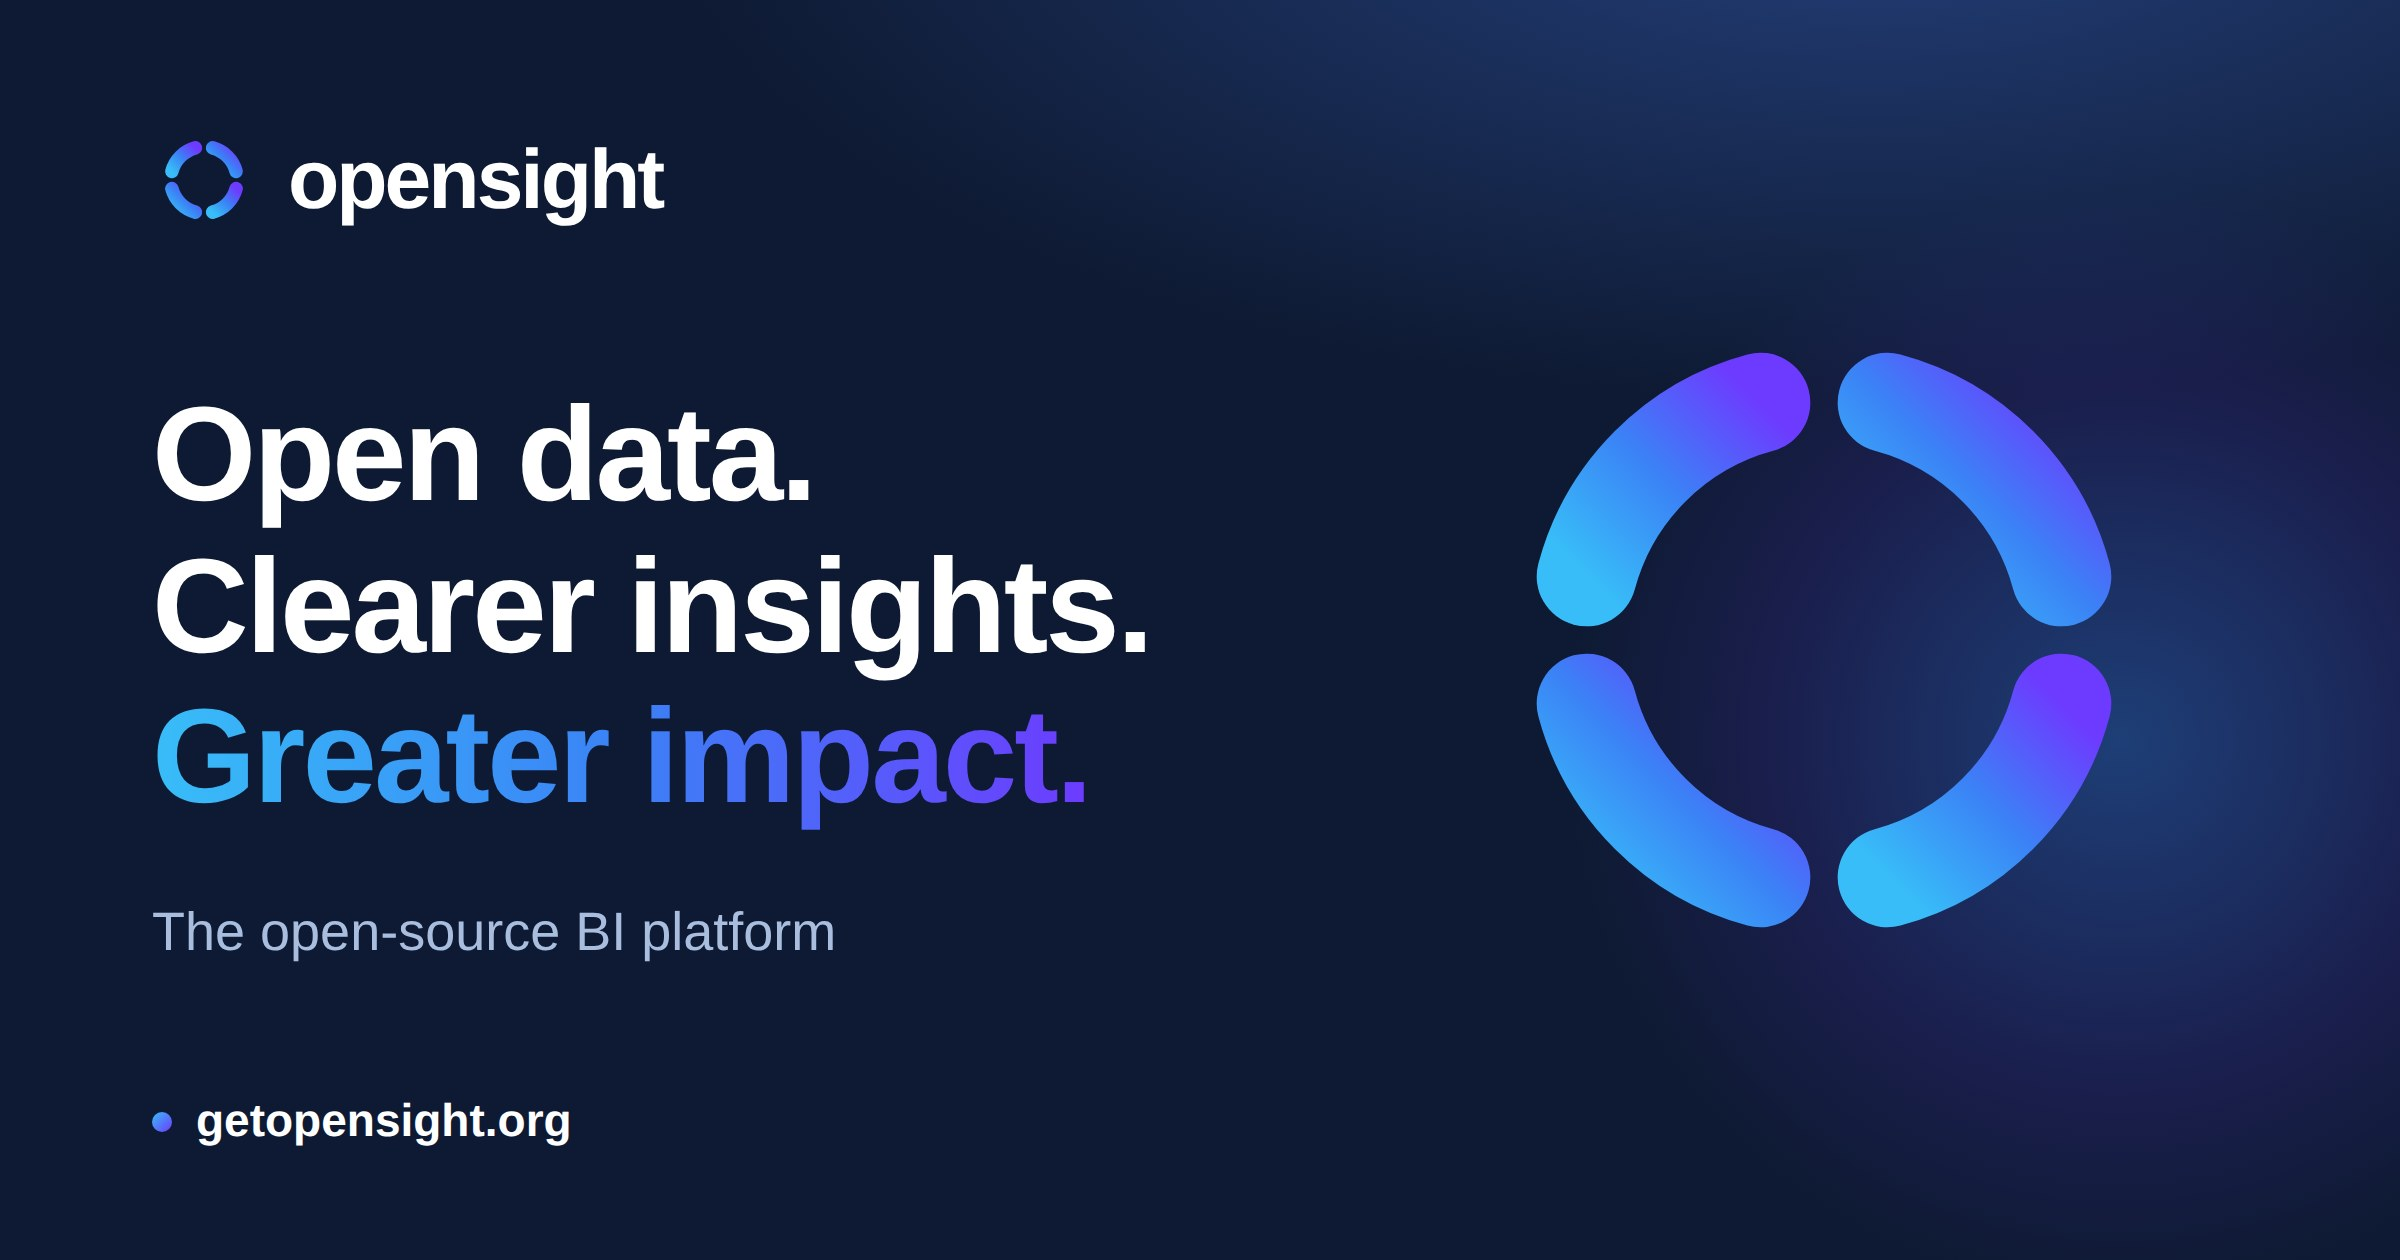
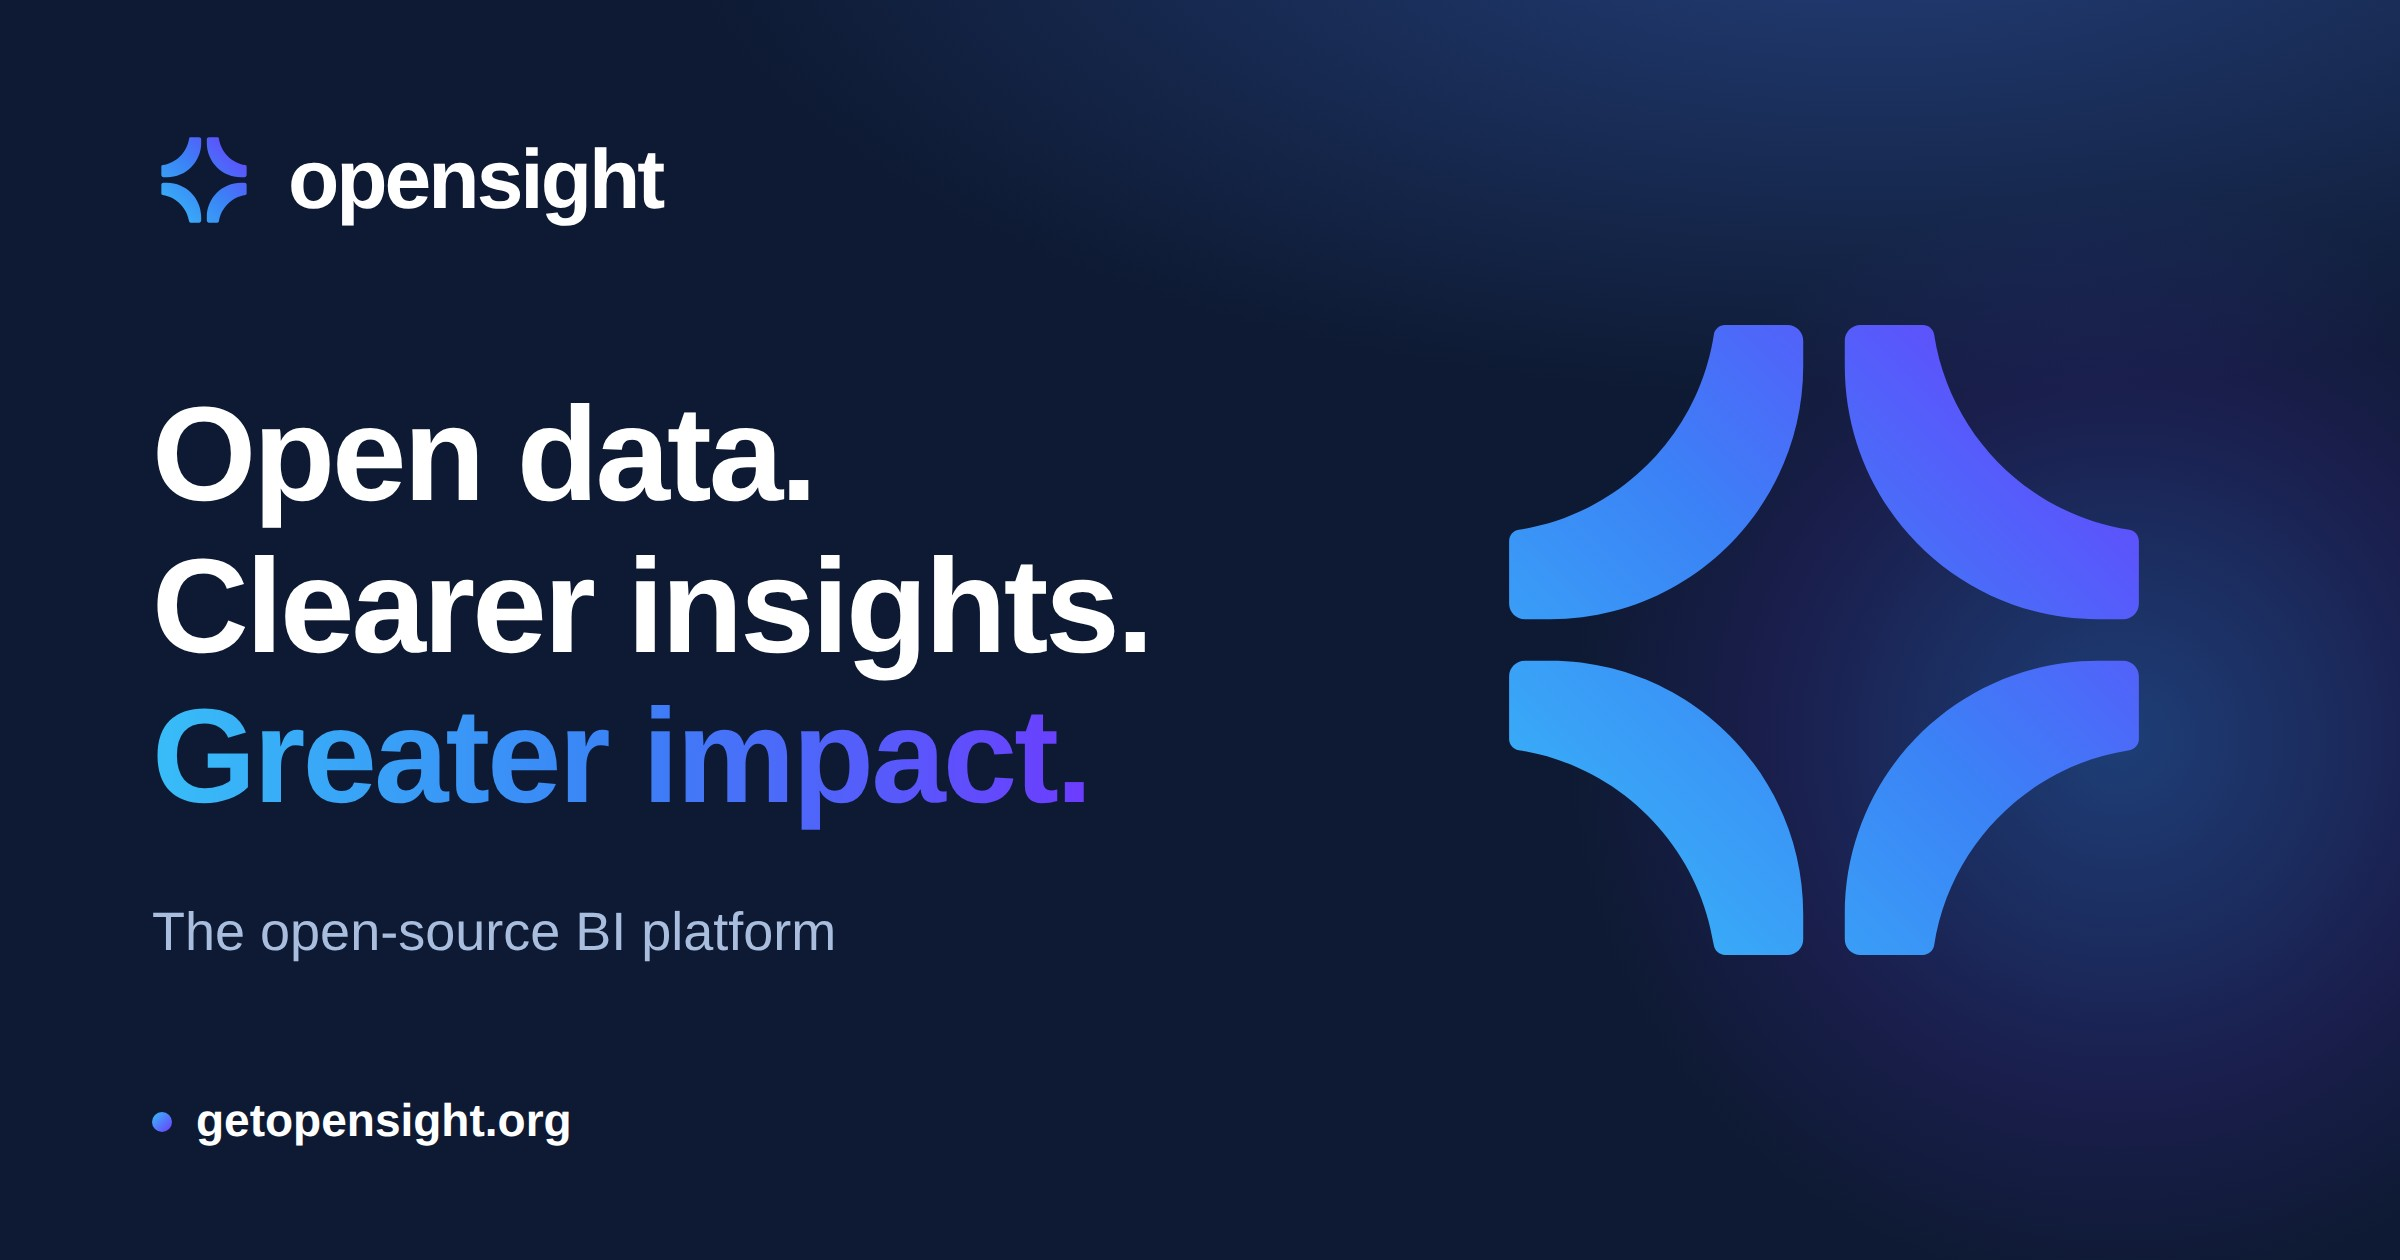
Brand: redrawn mark matching the approved sheets (filled sparkle arms, star center hole)
Replaces the ring-arc rendering across BrandMark, favicons, touch icon,
docs brand icon, marketing site marks, and the og share card (re-rendered
with the new mark). Approved by Tom 2026-10-30; geometry by Codex from the
brand guideline sheets.

Changed region(s): [[0.625, 0.2476, 0.9062, 0.7738], [0.0625, 0.0929, 0.125, 0.1857]]

diff --git a/site/index.html b/site/index.html
@@ -22,7 +22,7 @@
 <header class="topnav">
   <div class="wrap nav-inner">
     <a class="brand" href="#top" aria-label="OpenSight home">
-      <svg class="brand-mark" viewBox="0 0 100 100" width="26" height="26" aria-hidden="true"><defs><linearGradient id="site-brand-g" x1="0" y1="1" x2="1" y2="0"><stop offset="0" stop-color="#38BDF8"/><stop offset="0.5" stop-color="#3B82F6"/><stop offset="1" stop-color="#6D3BFF"/></linearGradient></defs><path d="M 58.28 19.09 A 32 32 0 0 1 80.91 41.72" fill="none" stroke="url(#site-brand-g)" stroke-width="13" stroke-linecap="round"/><path d="M 80.91 58.28 A 32 32 0 0 1 58.28 80.91" fill="none" stroke="url(#site-brand-g)" stroke-width="13" stroke-linecap="round"/><path d="M 41.72 80.91 A 32 32 0 0 1 19.09 58.28" fill="none" stroke="url(#site-brand-g)" stroke-width="13" stroke-linecap="round"/><path d="M 19.09 41.72 A 32 32 0 0 1 41.72 19.09" fill="none" stroke="url(#site-brand-g)" stroke-width="13" stroke-linecap="round"/></svg>
+      <svg class="brand-mark" viewBox="0 0 100 100" width="26" height="26" aria-hidden="true"><defs><linearGradient id="site-brand-g" x1="0" y1="1" x2="1" y2="0"><stop offset="0" stop-color="#38BDF8"/><stop offset="0.5" stop-color="#3B82F6"/><stop offset="1" stop-color="#6D3BFF"/></linearGradient></defs><path d="M 34.2851 0 L 44.2 0 C 45.5807 0 46.7 1.1193 46.7 2.5 L 46.7 6.5 C 46.7 28.7018 28.7018 46.7 6.5 46.7 L 2.5 46.7 C 1.1193 46.7 0 45.5807 0 44.2 L 0 34.2851 C 0 33.398 0.6463 32.6432 1.5227 32.5066 C 17.4905 30.0171 30.0171 17.4905 32.5066 1.5227 C 32.6432 0.6463 33.398 0 34.2851 0 Z M 100 34.2851 L 100 44.2 C 100 45.5807 98.8807 46.7 97.5 46.7 L 93.5 46.7 C 71.2982 46.7 53.3 28.7018 53.3 6.5 L 53.3 2.5 C 53.3 1.1193 54.4193 0 55.8 0 L 65.7149 0 C 66.602 0 67.3568 0.6463 67.4934 1.5227 C 69.9829 17.4905 82.5095 30.0171 98.4773 32.5066 C 99.3537 32.6432 100 33.398 100 34.2851 Z M 65.7149 100 L 55.8 100 C 54.4193 100 53.3 98.8807 53.3 97.5 L 53.3 93.5 C 53.3 71.2982 71.2982 53.3 93.5 53.3 L 97.5 53.3 C 98.8807 53.3 100 54.4193 100 55.8 L 100 65.7149 C 100 66.602 99.3537 67.3568 98.4773 67.4934 C 82.5095 69.9829 69.9829 82.5095 67.4934 98.4773 C 67.3568 99.3537 66.602 100 65.7149 100 Z M 0 65.7149 L 0 55.8 C 0 54.4193 1.1193 53.3 2.5 53.3 L 6.5 53.3 C 28.7018 53.3 46.7 71.2982 46.7 93.5 L 46.7 97.5 C 46.7 98.8807 45.5807 100 44.2 100 L 34.2851 100 C 33.398 100 32.6432 99.3537 32.5066 98.4773 C 30.0171 82.5095 17.4905 69.9829 1.5227 67.4934 C 0.6463 67.3568 0 66.602 0 65.7149 Z" fill="url(#site-brand-g)" transform="translate(11.5 11.5) scale(0.77)"/></svg>
       <span class="wordmark">opensight</span>
     </a>
     <nav class="nav-links" aria-label="Sections">
@@ -139,7 +139,7 @@
   <!-- 5. Open source -->
   <section id="open-source" class="section oss">
     <div class="wrap oss-inner">
-      <svg class="oss-mark" viewBox="0 0 100 100" width="44" height="44" aria-hidden="true"><defs><linearGradient id="site-oss-g" x1="0" y1="1" x2="1" y2="0"><stop offset="0" stop-color="#38BDF8"/><stop offset="0.5" stop-color="#3B82F6"/><stop offset="1" stop-color="#6D3BFF"/></linearGradient></defs><path d="M 58.28 19.09 A 32 32 0 0 1 80.91 41.72" fill="none" stroke="url(#site-oss-g)" stroke-width="13" stroke-linecap="round"/><path d="M 80.91 58.28 A 32 32 0 0 1 58.28 80.91" fill="none" stroke="url(#site-oss-g)" stroke-width="13" stroke-linecap="round"/><path d="M 41.72 80.91 A 32 32 0 0 1 19.09 58.28" fill="none" stroke="url(#site-oss-g)" stroke-width="13" stroke-linecap="round"/><path d="M 19.09 41.72 A 32 32 0 0 1 41.72 19.09" fill="none" stroke="url(#site-oss-g)" stroke-width="13" stroke-linecap="round"/></svg>
+      <svg class="oss-mark" viewBox="0 0 100 100" width="44" height="44" aria-hidden="true"><defs><linearGradient id="site-oss-g" x1="0" y1="1" x2="1" y2="0"><stop offset="0" stop-color="#38BDF8"/><stop offset="0.5" stop-color="#3B82F6"/><stop offset="1" stop-color="#6D3BFF"/></linearGradient></defs><path d="M 34.2851 0 L 44.2 0 C 45.5807 0 46.7 1.1193 46.7 2.5 L 46.7 6.5 C 46.7 28.7018 28.7018 46.7 6.5 46.7 L 2.5 46.7 C 1.1193 46.7 0 45.5807 0 44.2 L 0 34.2851 C 0 33.398 0.6463 32.6432 1.5227 32.5066 C 17.4905 30.0171 30.0171 17.4905 32.5066 1.5227 C 32.6432 0.6463 33.398 0 34.2851 0 Z M 100 34.2851 L 100 44.2 C 100 45.5807 98.8807 46.7 97.5 46.7 L 93.5 46.7 C 71.2982 46.7 53.3 28.7018 53.3 6.5 L 53.3 2.5 C 53.3 1.1193 54.4193 0 55.8 0 L 65.7149 0 C 66.602 0 67.3568 0.6463 67.4934 1.5227 C 69.9829 17.4905 82.5095 30.0171 98.4773 32.5066 C 99.3537 32.6432 100 33.398 100 34.2851 Z M 65.7149 100 L 55.8 100 C 54.4193 100 53.3 98.8807 53.3 97.5 L 53.3 93.5 C 53.3 71.2982 71.2982 53.3 93.5 53.3 L 97.5 53.3 C 98.8807 53.3 100 54.4193 100 55.8 L 100 65.7149 C 100 66.602 99.3537 67.3568 98.4773 67.4934 C 82.5095 69.9829 69.9829 82.5095 67.4934 98.4773 C 67.3568 99.3537 66.602 100 65.7149 100 Z M 0 65.7149 L 0 55.8 C 0 54.4193 1.1193 53.3 2.5 53.3 L 6.5 53.3 C 28.7018 53.3 46.7 71.2982 46.7 93.5 L 46.7 97.5 C 46.7 98.8807 45.5807 100 44.2 100 L 34.2851 100 C 33.398 100 32.6432 99.3537 32.5066 98.4773 C 30.0171 82.5095 17.4905 69.9829 1.5227 67.4934 C 0.6463 67.3568 0 66.602 0 65.7149 Z" fill="url(#site-oss-g)" transform="translate(11.5 11.5) scale(0.77)"/></svg>
       <h2>Apache-2.0. Really open.</h2>
       <p class="section-sub">The whole platform — bundle parser, query engines,
       authoring UI, embedding SDK — is public source on GitHub. No open-core
@@ -179,7 +179,7 @@ npm run dev --workspace @opensight/web</code></pre>
 <footer class="footer">
   <div class="wrap footer-grid">
     <div>
-      <p class="brand"><svg class="brand-mark" viewBox="0 0 100 100" width="22" height="22" aria-hidden="true"><defs><linearGradient id="site-foot-g" x1="0" y1="1" x2="1" y2="0"><stop offset="0" stop-color="#38BDF8"/><stop offset="0.5" stop-color="#3B82F6"/><stop offset="1" stop-color="#6D3BFF"/></linearGradient></defs><path d="M 58.28 19.09 A 32 32 0 0 1 80.91 41.72" fill="none" stroke="url(#site-foot-g)" stroke-width="13" stroke-linecap="round"/><path d="M 80.91 58.28 A 32 32 0 0 1 58.28 80.91" fill="none" stroke="url(#site-foot-g)" stroke-width="13" stroke-linecap="round"/><path d="M 41.72 80.91 A 32 32 0 0 1 19.09 58.28" fill="none" stroke="url(#site-foot-g)" stroke-width="13" stroke-linecap="round"/><path d="M 19.09 41.72 A 32 32 0 0 1 41.72 19.09" fill="none" stroke="url(#site-foot-g)" stroke-width="13" stroke-linecap="round"/></svg><span class="wordmark">opensight</span></p>
+      <p class="brand"><svg class="brand-mark" viewBox="0 0 100 100" width="22" height="22" aria-hidden="true"><defs><linearGradient id="site-foot-g" x1="0" y1="1" x2="1" y2="0"><stop offset="0" stop-color="#38BDF8"/><stop offset="0.5" stop-color="#3B82F6"/><stop offset="1" stop-color="#6D3BFF"/></linearGradient></defs><path d="M 34.2851 0 L 44.2 0 C 45.5807 0 46.7 1.1193 46.7 2.5 L 46.7 6.5 C 46.7 28.7018 28.7018 46.7 6.5 46.7 L 2.5 46.7 C 1.1193 46.7 0 45.5807 0 44.2 L 0 34.2851 C 0 33.398 0.6463 32.6432 1.5227 32.5066 C 17.4905 30.0171 30.0171 17.4905 32.5066 1.5227 C 32.6432 0.6463 33.398 0 34.2851 0 Z M 100 34.2851 L 100 44.2 C 100 45.5807 98.8807 46.7 97.5 46.7 L 93.5 46.7 C 71.2982 46.7 53.3 28.7018 53.3 6.5 L 53.3 2.5 C 53.3 1.1193 54.4193 0 55.8 0 L 65.7149 0 C 66.602 0 67.3568 0.6463 67.4934 1.5227 C 69.9829 17.4905 82.5095 30.0171 98.4773 32.5066 C 99.3537 32.6432 100 33.398 100 34.2851 Z M 65.7149 100 L 55.8 100 C 54.4193 100 53.3 98.8807 53.3 97.5 L 53.3 93.5 C 53.3 71.2982 71.2982 53.3 93.5 53.3 L 97.5 53.3 C 98.8807 53.3 100 54.4193 100 55.8 L 100 65.7149 C 100 66.602 99.3537 67.3568 98.4773 67.4934 C 82.5095 69.9829 69.9829 82.5095 67.4934 98.4773 C 67.3568 99.3537 66.602 100 65.7149 100 Z M 0 65.7149 L 0 55.8 C 0 54.4193 1.1193 53.3 2.5 53.3 L 6.5 53.3 C 28.7018 53.3 46.7 71.2982 46.7 93.5 L 46.7 97.5 C 46.7 98.8807 45.5807 100 44.2 100 L 34.2851 100 C 33.398 100 32.6432 99.3537 32.5066 98.4773 C 30.0171 82.5095 17.4905 69.9829 1.5227 67.4934 C 0.6463 67.3568 0 66.602 0 65.7149 Z" fill="url(#site-foot-g)" transform="translate(11.5 11.5) scale(0.77)"/></svg><span class="wordmark">opensight</span></p>
       <p class="footer-tag">The open-source BI platform.</p>
     </div>
     <nav aria-label="Footer">

diff --git a/packages/web/src/BrandMark.tsx b/packages/web/src/BrandMark.tsx
@@ -1,9 +1,12 @@
 import { useId } from 'react';
 
-// The OpenSight brand mark: four arcs in the brand diagonal gradient
-// (sky #38BDF8 → blue #3B82F6 → violet #6D3BFF). Rendered as inline SVG so
-// the gradient stays self-contained; the gradient id is unique per
-// instance so several marks on one page never collide.
+// The OpenSight brand mark: four filled sparkle arms in the brand diagonal
+// gradient (sky #38BDF8 → blue #3B82F6 → violet #6D3BFF), redrawn
+// 2026-10-30 to match the approved brand sheets (filled arms, four-point
+// star center hole). One compound path keeps the gradient fixed across the
+// whole mark; the gradient id is unique per instance so several marks on
+// one page never collide. The path is inset to the footprint the previous
+// arc mark occupied, so header sizing is unchanged.
 export function BrandMark({ size = 20 }: { size?: number }) {
   const gradientId = `brand-g-${useId().replace(/[^a-zA-Z0-9]/g, '')}`;
   const ref = `url(#${gradientId})`;
@@ -16,10 +19,7 @@ export function BrandMark({ size = 20 }: { size?: number }) {
           <stop offset="1" stopColor="#6D3BFF" />
         </linearGradient>
       </defs>
-      <path d="M 58.28 19.09 A 32 32 0 0 1 80.91 41.72" fill="none" stroke={ref} strokeWidth="13" strokeLinecap="round" />
-      <path d="M 80.91 58.28 A 32 32 0 0 1 58.28 80.91" fill="none" stroke={ref} strokeWidth="13" strokeLinecap="round" />
-      <path d="M 41.72 80.91 A 32 32 0 0 1 19.09 58.28" fill="none" stroke={ref} strokeWidth="13" strokeLinecap="round" />
-      <path d="M 19.09 41.72 A 32 32 0 0 1 41.72 19.09" fill="none" stroke={ref} strokeWidth="13" strokeLinecap="round" />
+      <path d="M 34.2851 0 L 44.2 0 C 45.5807 0 46.7 1.1193 46.7 2.5 L 46.7 6.5 C 46.7 28.7018 28.7018 46.7 6.5 46.7 L 2.5 46.7 C 1.1193 46.7 0 45.5807 0 44.2 L 0 34.2851 C 0 33.398 0.6463 32.6432 1.5227 32.5066 C 17.4905 30.0171 30.0171 17.4905 32.5066 1.5227 C 32.6432 0.6463 33.398 0 34.2851 0 Z M 100 34.2851 L 100 44.2 C 100 45.5807 98.8807 46.7 97.5 46.7 L 93.5 46.7 C 71.2982 46.7 53.3 28.7018 53.3 6.5 L 53.3 2.5 C 53.3 1.1193 54.4193 0 55.8 0 L 65.7149 0 C 66.602 0 67.3568 0.6463 67.4934 1.5227 C 69.9829 17.4905 82.5095 30.0171 98.4773 32.5066 C 99.3537 32.6432 100 33.398 100 34.2851 Z M 65.7149 100 L 55.8 100 C 54.4193 100 53.3 98.8807 53.3 97.5 L 53.3 93.5 C 53.3 71.2982 71.2982 53.3 93.5 53.3 L 97.5 53.3 C 98.8807 53.3 100 54.4193 100 55.8 L 100 65.7149 C 100 66.602 99.3537 67.3568 98.4773 67.4934 C 82.5095 69.9829 69.9829 82.5095 67.4934 98.4773 C 67.3568 99.3537 66.602 100 65.7149 100 Z M 0 65.7149 L 0 55.8 C 0 54.4193 1.1193 53.3 2.5 53.3 L 6.5 53.3 C 28.7018 53.3 46.7 71.2982 46.7 93.5 L 46.7 97.5 C 46.7 98.8807 45.5807 100 44.2 100 L 34.2851 100 C 33.398 100 32.6432 99.3537 32.5066 98.4773 C 30.0171 82.5095 17.4905 69.9829 1.5227 67.4934 C 0.6463 67.3568 0 66.602 0 65.7149 Z" fill={ref} transform="translate(11.5 11.5) scale(0.77)" />
     </svg>
   );
 }

diff --git a/CHANGELOG.md b/CHANGELOG.md
@@ -82,6 +82,10 @@ Unreleased entries into a new version section (see AGENTS.md §1).
 
 ### Changed
 
+- The brand mark was redrawn to match the approved brand sheets: four
+  filled sparkle arms with a four-point star center hole replace the
+  earlier ring-arc rendering, across the app header mark, favicons,
+  touch icon, marketing site, and the link-preview share card.
 - Link previews for getopensight.org now use a designed marketing share
   card (`site/assets/og-image.jpg`, 1200×630) as the og:image and
   twitter:image, replacing the hero video poster frame.
